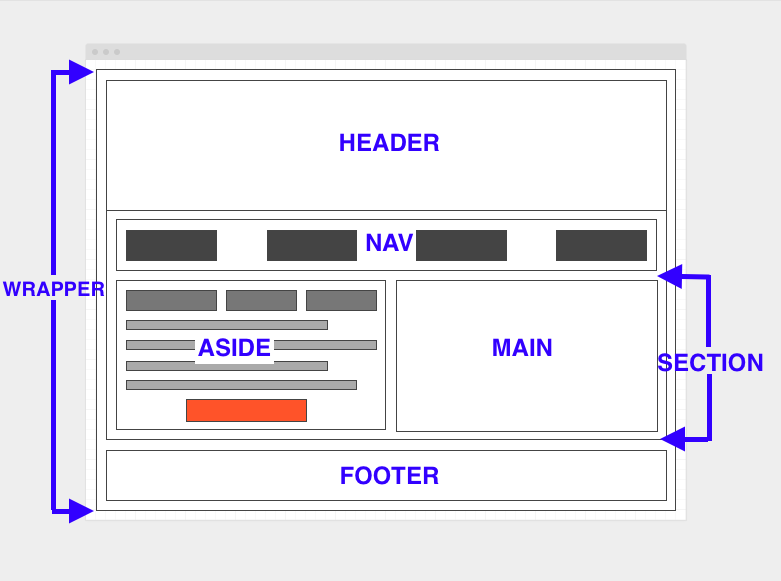
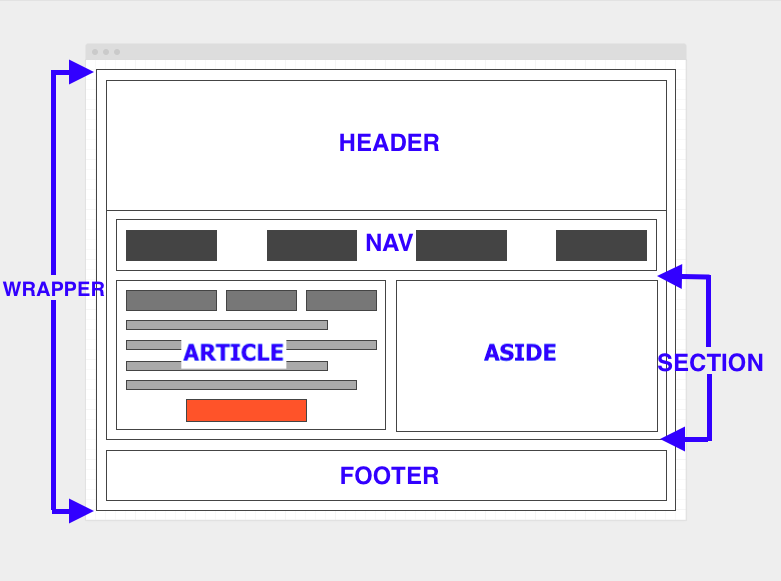
Unit 5 2

Changed region(s): [[0.2151, 0.5577, 0.3688, 0.6506], [0.6146, 0.5577, 0.7375, 0.6196]]

diff --git a/unit_6/css/style.css b/unit_6/css/style.css
@@ -33,9 +33,6 @@ body{
 
 article{
 	margin: 50px 100px 0px 100px;
-	background-color: #E89C6C;
-	border: 1px black solid;
-	padding: 20px;
 }
 
 h2{
@@ -44,9 +41,8 @@ h2{
 
 footer{
 	text-align: center;
-	background-color: #FF957E;
-	border: 1px black solid;
-	padding: 20px;
+	background-color: #DCD2C8;
+	padding: 2em 0;
 	font-weight: 800;
 	overflow: hidden;
 }
@@ -72,35 +68,8 @@ a:hover {
 .picture{
 	display: block;
 	margin-left: 500px;
-	padding: 2em;
+	padding: 2em 0;
 }
 
-header {
-	background-color: #FFED74;
-	border: 1px black solid;
-	padding: 20px;
-}
 
-nav {
-	background-color: #E8C66A;
-	border: 1px black solid;
-	padding: 20px;
-}
 
-aside {
-	background-color: #FFC675;
-	border: 1px black solid;
-	padding: 20px;
-}
-
-div {
-	background-color: #FFE2B8
-	border: 1px black solid;
-	padding: 20px;
-}
-
-section {
-	background-color: #FFE2B8
-	border: 1px black solid;
-	padding: 20px;	
-}
